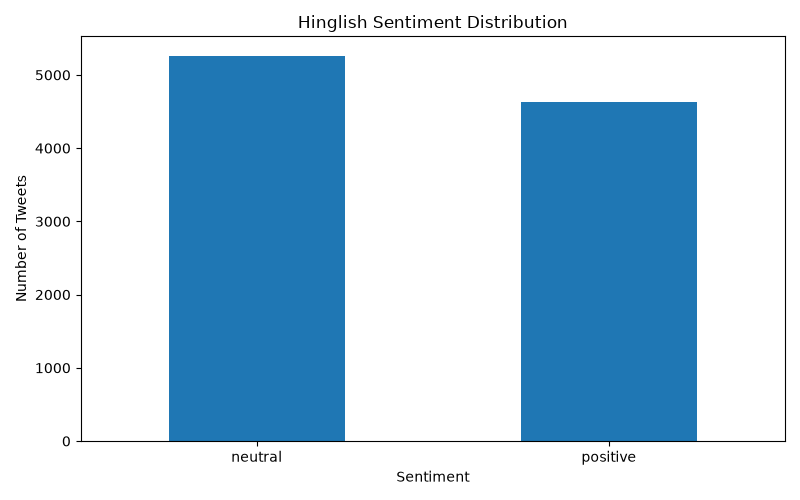
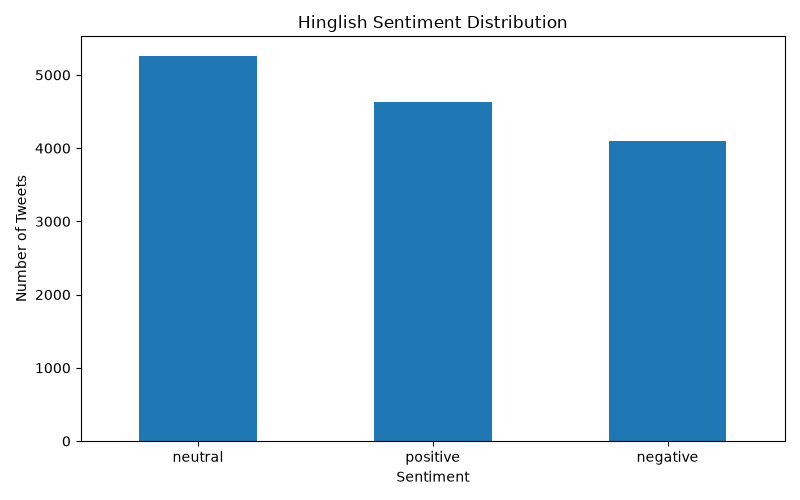
Fix dataset conversion and update sentiment distribution

diff --git a/src/convert_dataset.py b/src/convert_dataset.py
@@ -23,7 +23,7 @@ def convert_conll_to_dataframe(file_path):
 
         if text and sentiment in {
             "positive",
-            "begative",
+            "negative",
             "neutral"
         }:
             records.append({
